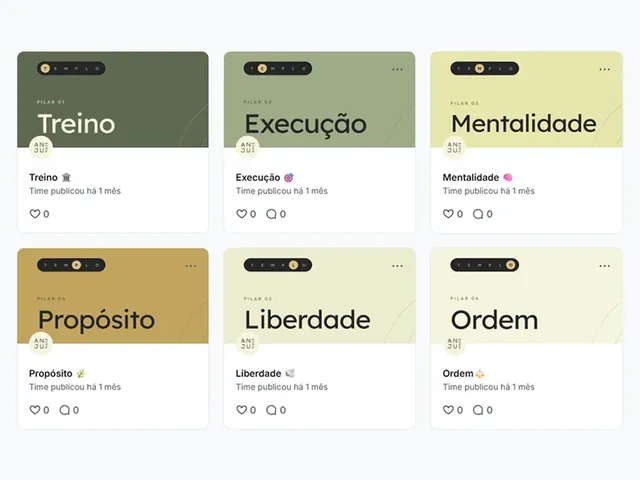
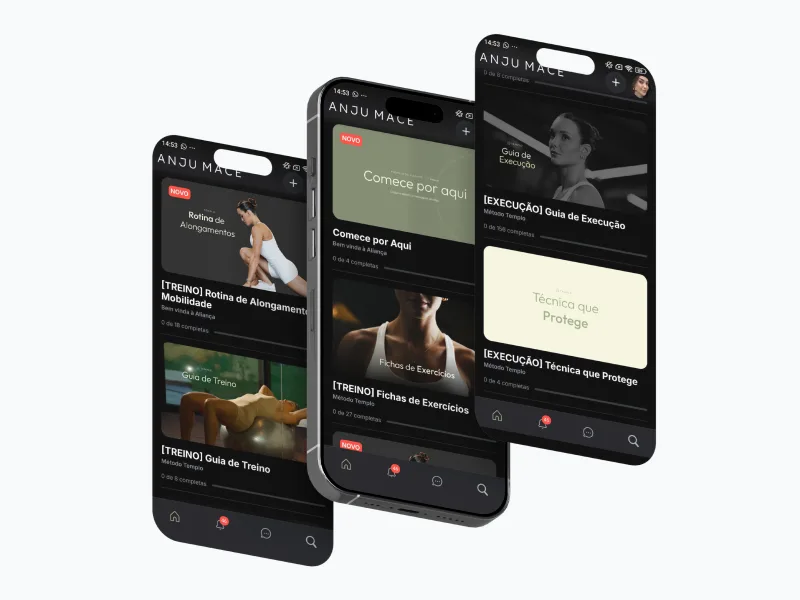
feat(landing): atualiza imagens do funil do guia (Aliança, Método)
guia-alianca.webp e guia-metodo.webp com prints novos; a secao "Metodo
T.E.M.P.L.O. em trilha guiada" em /guia/obrigado passa a usar guia-metodo.webp
em vez do ometodo-desktop.webp antigo.

diff --git a/design-system/src/landing/guia/AppGuiaObrigado.jsx b/design-system/src/landing/guia/AppGuiaObrigado.jsx
@@ -292,7 +292,7 @@ export function AppGuiaObrigado() {
             <Reveal delay={120} className="h-full"><IncludeCard icon={RotateCcw} image="/guia-alongamentos.webp" imageAlt="Tabela de Alongamentos Conscientes" title="Alongamentos Conscientes prescrito.">Protocolo de mobilidade desenhado para os seus encurtamentos, mapeados na avaliação.</IncludeCard></Reveal>
             <Reveal delay={180} className="h-full"><IncludeCard icon={Video} image="/guia-guia-treino.webp" imageAlt="Vídeo de execução com a correção de Anju" title="Correção de execução.">Você envia o vídeo, recebe a análise, com foco na ativação correta para o corpo feminino.</IncludeCard></Reveal>
             <Reveal delay={240} className="h-full"><IncludeCard icon={ClipboardCheck} image="/guia-reavaliacao.webp" imageAlt="Anju analisando a reavaliação de uma aluna" title="Reavaliação e relatório ao fim do ciclo.">Ponto de partida e ponto de chegada, lado a lado.</IncludeCard></Reveal>
-            <Reveal delay={300} className="h-full"><IncludeCard icon={Route} image="/landing/ometodo-desktop.webp" imageAlt="As aulas dos pilares do método T.E.M.P.L.O." title="Método T.E.M.P.L.O. em trilha guiada.">Os seis pilares sequenciados conforme a sua fase, com alguém do time validando cada avanço.</IncludeCard></Reveal>
+            <Reveal delay={300} className="h-full"><IncludeCard icon={Route} image="/guia-metodo.webp" imageAlt="As aulas dos pilares do método T.E.M.P.L.O." title="Método T.E.M.P.L.O. em trilha guiada.">Os seis pilares sequenciados conforme a sua fase, com alguém do time validando cada avanço.</IncludeCard></Reveal>
           </div>
 
           {/* Banda de suporte + bônus — brilho dourado, eco da banda-bônus de /singular */}